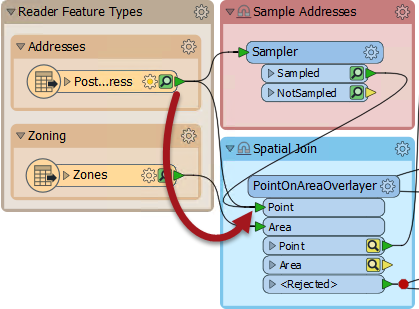
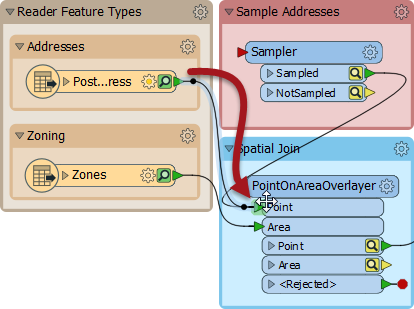
2018 Ch3 Ex3 Updates/rewording

diff --git a/DesktopBasic3WorkspaceDesign/3.Exercise3.md b/DesktopBasic3WorkspaceDesign/3.Exercise3.md
@@ -46,11 +46,13 @@ Now the task is simply to replace the groups of point features with a polygon bo
 
 
 <br>**1) Open Copy of Workspace**
-<br>Make a copy of your original workspace and give it a new version number. For example, if you saved it to GarbageCollection-v2.fmw then make a copy named GarbageCollection-v3.fmw
+<br>Open your workspace from the previous exercise. 
 
-The idea is that we want to keep prior versions as a checkpoint, in case we need to revert at any point.
+If you gave that workspace a version number in its name, then you should make a copy of the workspace with a new version number. For example, if you saved it to GarbageCollection-v2.fmw then make a copy named GarbageCollection-v3.fmw and open that for editing.
 
-Open the new version in Workbench, ready for editing.
+Alternatively you can open the workspace C:\FMEData2018\Workspaces\DesktopBasic\Design-Ex3-Begin.fmw:
+
+![](./Images/Img3.231a.Ex3.StartingWorkspace.png)
 
 
 <br>**2) Run Workspace**
@@ -62,7 +64,7 @@ Once complete, click on some caches to prove that the data can be inspected dire
 
 
 <br>**3) Add HullReplacer**
-<br>Add a HullReplacer transformer and move it into the Create Boundaries bookmark. Connect it between the Aggregator and FeatureWriter:
+<br>Move the HullReplacer transformer from the "Transformers" bookmark into the "Create Boundaries" bookmark. Connect it between the Aggregator and FeatureWriter:
 
 ![](./Images/Img3.231.Ex3.HullReplacerCanvas.png)
 
@@ -98,11 +100,13 @@ Re-run the translation by clicking the AreaOnAreaOverlayer and choosing Run From
 
 
 <br>**7) Add PointOnAreaOverlayer**
-<br>The overlaps are dissolved, but we do not yet know which area to assign them to. It should be the one with most addresses; for example if an overlap contains 31 addresses from group one, and 52 addresses from group two, then it should be assigned to the group two polygon. 
+<br>The overlaps are now separate features, but we do not yet know which area to assign them to. It should be the one with most addresses; for example if an overlap contains 31 addresses from group one, and 52 addresses from group two, then it should be assigned to the group two polygon. 
 
 We can start on this by using a PointOnAreaOverlayer. This will let us create a list of which addresses an overlap contains.
 
-So add a PointOnAreaOverlayer transformer. The area features will be the output from the AreaOnAreaOverlayer. The point features will be a second connection from the SpatialSorter (i.e. the original points):
+So add a PointOnAreaOverlayer transformer. The area features will be the output from the AreaOnAreaOverlayer. 
+
+The point features should be a copy of the addresses. The simplest way to get these is to make a second connection from the SpatialSorter:
 
 ![](./Images/Img3.236.Ex3.POAOCanvas2.png)
 
@@ -117,13 +121,17 @@ Inspect the parameters. Under Attribute Accumulation, set the following paramete
 
 ![](./Images/Img3.237.Ex3.POAOParams2.png)
 
-This will create a list of all the point features that fall inside a polygon, with a record of their GroupID values. Confirm this works correctly by running the workspace at the new PointOnAreaOverlayer. Notice how the translation pulls data from two caches; the AreaOnAreaOverlayer and SpatialSorter transformers:
+This will create an FME list attribute. A list attribute is an attribute with multiple values. Here the list will contain a record of the point features (and their GroupID values) that fall inside a polygon. 
+
+Confirm this works correctly by running the workspace at the new PointOnAreaOverlayer. Notice how the translation pulls data from two caches; the AreaOnAreaOverlayer and SpatialSorter transformers:
 
 ![](./Images/Img3.238.Ex3.POAORun.png)
 
+Inspect the Area features. Querying a feature will show (in the Feature Information window) the list attribute and all of its values.
+
 
 <br>**8) Add ListHistogrammer**
-<br>To count the most frequent ID for records in a list we'll use the ListHistogrammer transformer.
+<br>To count the most frequent GroupID for each list on an overlap's we'll use the ListHistogrammer transformer.
 
 ---
 
@@ -152,11 +160,11 @@ Place a ListHistogrammer transformer connected to the PointOnAreaOverlayer:Area 
 
 ![](./Images/Img3.239.Ex3.ListHistogrammerCanvas.png)
 
-Re-run the workspace (from the ListHistogrammer) to see the result of this transformer.
+Re-run the workspace (from the ListHistogrammer) and inspect the results. Notice that a new list attribute is created; a list of the number of different GroupID values with the most frequent GroupID at the top of the list.  So we merely need to use that GroupID to merge areas together.
 
 
 <br>**8) Add Dissolver**
-<br>Finally let's add a Dissolver to merge the features together. So add a Dissolver connected to the ListHistogrammer output port:
+<br>Finally add a Dissolver transformer to merge the features together. Connect the Dissolver to the ListHistogrammer output port:
 
 ![](./Images/Img3.240.Ex3.DissolverCanvas.png)
 
@@ -176,42 +184,17 @@ We now have five polygon features to represent garbage collection areas, each wi
 
 
 <br>**9) Remove Sampler**
-<br>To complete the project let's run the workspace on the full dataset. You can do this either by deleting the Sampler transformer (the simplest solution) or disabling it and adding a connection to bypass it.
-
-To bypass the Sampler, first draw a second connection from the source data to the first PointOnAreaOverlayer's Point input port:
+<br>To complete the project let's run the workspace on the full dataset. You can do this by deleting the Sampler transformer (the simplest solution) or by replacing the PostalAddress-Sampler connection with a PostalAddress-PointOnAreaOverlayer connection:
 
 ![](./Images/Img3.244.Ex3.SamplerBypass.png)
 
-Then right-click on the connection entering the Sampler input and disable it. Now this connection will be ignored. Running the workspace will bypass the Sampler, but leave the Sampler in place for possible later use.
-
 So far we have set the Grid Size parameter for the SpatialSorter to 16 (i.e. less precise) to increase performance. Now that we are nearly finished we should increase the Grid Size to 256 (i.e. more precise).
 
-Because this is the first time using the full dataset, we might consider caching this data too. However, that would make the workspace run much slower. So, for reasons of time and performance, turn off the Run with Caching option and then re-run the translation.
+For reasons of time and performance, turn off the Run with Caching option and then re-run the translation.
 
 As expected, the result will look different, now that we're using the full dataset:
 
 ![](./Images/Img3.245.Ex3.SamplerBypassOutput.png)
-
----
-
-<!--Tip Section--> 
-
-<table style="border-spacing: 0px">
-<tr>
-<td style="vertical-align:middle;background-color:darkorange;border: 2px solid darkorange">
-<i class="fa fa-info-circle fa-lg fa-pull-left fa-fw" style="color:white;padding-right: 12px;vertical-align:text-top"></i>
-<span style="color:white;font-size:x-large;font-weight: bold;font-family:serif">TIP</span>
-</td>
-</tr>
-
-<tr>
-<td style="border: 1px solid darkorange">
-<span style="font-family:serif; font-style:italic; font-size:larger">
-On my computer it takes four minutes to run the workspace with caching turned on. Without caching it only takes one minute.
-</span>
-</td>
-</tr>
-</table>
 
 ---
 
